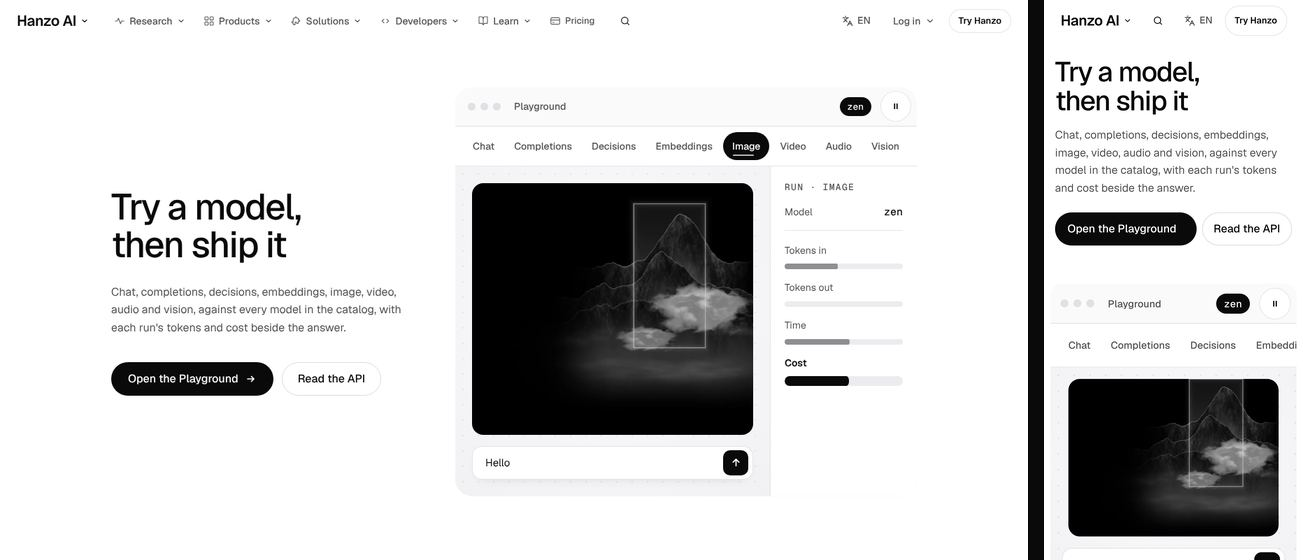
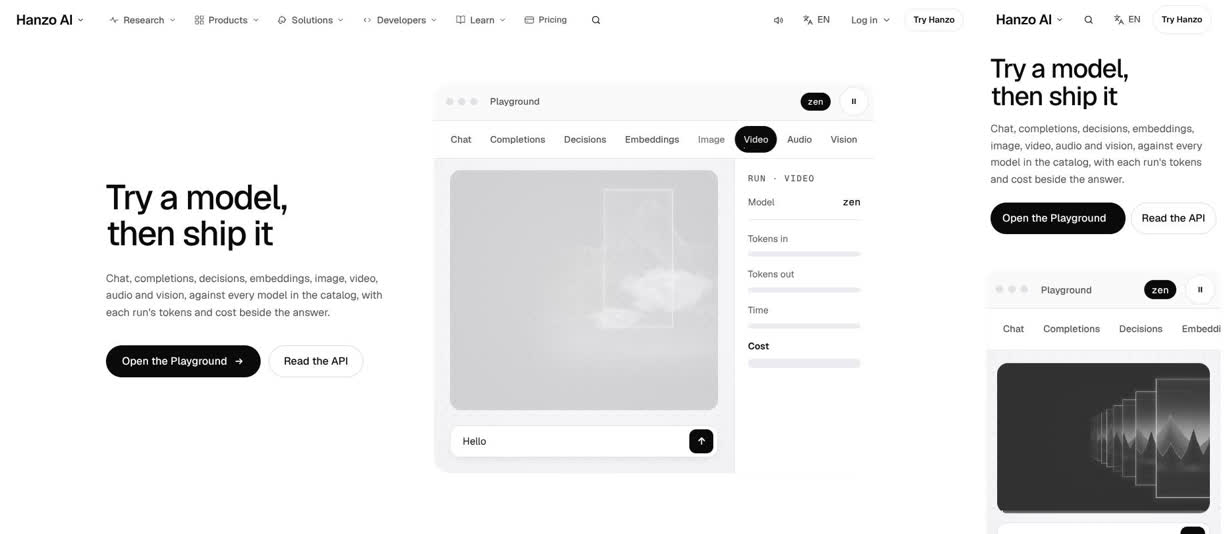
re-review: /playground 6/10 after the system merge (hero window jumps, still screens, header ask turned hollow, card claims false)
Claude-Session: https://claude.ai/code/session_01DqUybEnABm6Lfey1goid2b

diff --git a/docs/review/playground.md b/docs/review/playground.md
@@ -1,159 +1,223 @@
 # /playground: James-eye review
 
 Verdict: 6/10
-First complaint: "The top is good, a real Playground running on our own pictures, but the window's right side just fades into the page. Then I scroll for nearly four screens and all that happens is one word goes bold next to a code box that's half empty. In the film wall an 'Open' label chases my cursor, which I said I don't want. And once the top has gone there's no button to open the Playground until the very end."
+First complaint: "The top's good, the Playground's really running. Then I scroll through five screens where nothing moves unless I do, just one word going bold next to a half-empty code box. And on this page even the Try Hanzo button up top has been made hollow, so once the top's gone there's nothing to press until the very end."
 
-Reviewed: branch `claude/elegant-johnson-b2vx1q` @ `9898ac2`. The page files last changed at `c9784eb`; the Cloud 3 kit (`LaunchType`, `SettleStage`, `LaunchClose`, `RelatedCards`) changed at `3f456ca`. Files hash (Playground.jsx + .css + page.jsx): `cfd7a21d0c4d`.
-Walked 7 Nov 14:34–15:02 UTC on the dev server, moving, at 1470×801, 375×812 and 390×664. I walked it once at `c9784eb` with the old kit and again after `3f456ca` landed; the verdict is on the second walk. I kept videos, frame sheets, a hover/press log and probe JSON. The once-per-visit loader was skipped, except for one walk with it on. The bar is the current `MASTER.md` and `JAMES.md` (scale rhythm, nothing floats, deck greys, flat surfaces, no springs).
-Proof: `img/playground.jpg` (desktop first screen | phone first screen; the Next dev badge is hidden in the shot).
+Reviewed: main @ `648b798` (last page commit `c9784eb`). Files hash: `e6de6830175d`
+Walked 7 Nov 15:10–15:14 UTC on the dev server, moving, at 1470×801 and 375×812 (videos, frame sheets and a frame-difference motion log kept by the critic; the site loader was skipped).
+Proof: `img/playground.jpg` (desktop first screen | phone first screen).
+
+## Since the last review
+- **The page itself has not changed.** `Playground.jsx`, `Playground.css` and `page.jsx` last changed at `c9784eb` (14:33), before the last review. Every change below comes from the shared system (the merges up to `648b798`), not from the builder.
+- **Done by the shared system: nothing floats, and the red badge is gone.**
+  - The cursor-following "Open" label on the wall is gone site-wide. `data-cursor="Open"` is still on line 253, but it now does nothing.
+  - There is no desktop pill bar. The phone bar shows only at s2–s3, as a quiet white bar over the empty grey under the code card.
+  - The walk found no floats and no overlaps at either width, and 0 console errors at either width (the last review had a red "1 Issue" badge).
+  - Through the kit, "Paste and ship" now rests at 26px (it was 56px).
+- **Worse: the ask.** The system now makes the header's "Try Hanzo" the one solid ask at every width ("it never outlines"). `Playground.css` line 6 still outlines it on this page, so on desktop nothing solid carries the ask from s1 to s8 (answer 4).
+- **Still open, all with fresh evidence:**
+  - the hero window's snap at load, and its missing right and bottom edge (answer 1);
+  - the lit kind off the end of the phone tab strip;
+  - the pinned scene, now measured as five STILL screens in a row (answer 2), with its half-empty curl card;
+  - the 480→700 weight reflow on the phrases (JUMP);
+  - the springs, the shadows on things that don't float, and the off-deck greys and radii;
+  - "Deploy to Cloud", still dead with no press;
+  - the coverage card, still the old list with false claims.
+- **New:** each time Video comes round, the canvas goes blank for about 1.2 s. The proof image caught it.
 
 ## The 11 answers
-1. **Sells in 5 seconds, moves within 1 second?** Yes, with three blemishes.
-   - What works: the first screen has the 52px h1, the lede, one solid ask and the Playground window running beside it, at 1470×801 and at 375×812. At 390×664 you see only the window's bar, its tabs and about 60px of canvas. Iro's tiles start clearing at first paint (CSS, no JS needed) and the meter fills. The eight kinds take turns every 3.8 s, and hovering a kind previews it. It sells.
-   - The window's right and bottom edges have no line. The white run panel dissolves into the white page, so the box looks unfinished. The kit's hairline is an inset shadow painted under `.pg-win`'s opaque fill, and `3f456ca` removed the drop shadow that used to define the edge.
-   - The window jumps about 40px up and left in a single frame when the page hydrates, with no input. `SettleStage` server-renders at scale 1.08 and +48px, then snaps to settled because the stage is already past its end offset. That was about 1.5 s after paint on the dev server.
-   - On phones the running kind is off the right end of the tab strip. At 375, "Image" sits at x 399–465 and the strip ends at 359, so the window runs a kind with no tab lit.
-2. **One in, one out, or a document?** Mostly one in, one out. The order is hero → the pinned "first request" scene → the dark room (ClipWipe) with the model wall → related → close.
-   - The pinned scene is the weak stretch. It has four states over 3,044px, which is 3.8 screens at 1470×801. Three of the four states only bold one phrase and mark one token.
-   - Meanwhile the curl card stays half empty: 3 lines in a card sized for the 12-line Python pane.
-   - Related, then close, ends as a document.
+1. **Sells in 5 seconds, moves within 1 second?** Yes, with four blemishes.
+   - Desktop: all of this fits inside 801px:
+     - the 52px h1 "Try a model, then ship it" on two lines (cut in by line mask; the mask shows at 2.8 s in the film);
+     - the lede;
+     - "Open the Playground" (y 518) and "Read the API";
+     - the running window.
+
+     Iro's tiles clear and the meter fills. Moving frames in the first second after paint: 6/25; s0 shotdiff 25.2. Paint came at 2.76 s, which is the dev server's first compile on the first walk, so I don't score it.
+   - Phone: the 40px h1, the lede, both buttons and the window's bar, tabs and about 230px of canvas fit inside 812px. 8/25 frames move in the first second, and s0 shotdiff is 12.9.
+   - **The window snaps.** At 4.6→4.8 s in the film (about 1.9 s after paint) the window shrinks by about 7% and jumps about 50px up in one frame, with no input. `SettleStage` server-renders it scaled and offset, then snaps it to rest.
+   - **A blank canvas.** Each time the kinds reach Video, the canvas fades to a blank pale grey and the meter empties for about 1.2 s before Koma's film shows (film 9.0–10.2 s, `d-shot-00-b`, and the proof itself). It reads as "still loading".
+   - **No edge.** The window's right and bottom edges have no line, so the white run panel runs into the white page (proof, left half).
+   - **Phone tabs.** From Image onwards the lit kind is off the right end of the tab strip ("Embeddi" is the last tab you can see), so the window runs a kind with no tab lit.
+2. **One in, one out, or a document?** Half. The order is:
+   1. hero;
+   2. the pinned "first request" scene;
+   3. the dark room, which opens from a rounded black card to full width (as MASTER asks), with the nine-model wall;
+   4. related;
+   5. the close.
+
+   - **Desktop, a dead stretch.** The pinned scene takes s1–s5 (3,250px), and all five screens are STILL (shotdiff 0 on each). Nothing there changes unless you scroll: one phrase goes bold and its token gets a black mark.
+   - Add s7 (related) and s10 (footer), and 7 of 11 desktop screens are STILL. Only s0, s6 (the wall, 1.29), s8 (0.42) and s9 (0.59) move by themselves.
+   - The code card stays half empty for curl: 3–4 lines in a card sized for Python's 12 (s2, s3).
+   - Phone is better: s0, s1, s4, s5 and s6 move, and s2, s3 (the scene) and s7 (the close) are STILL.
+   - After the wall it ends as the kit always does: related cards, then "Get Playground".
 3. **A real object in every section?** Yes at section level:
-   - the live window;
+   - the running window;
    - Hanzo's own curl and Python;
-   - nine model renders with one film playing (the best block on the page, and JAMES 6 met);
+   - nine model renders with one film playing at a time (the best block on the page, and JAMES 6 met);
    - Sigil art on the related cards and the close.
 
    Inside the window it is weaker:
-   - Chat and Completions are grey skeleton bars that read as "still loading".
+   - Chat and Completions draw grey bars (`#d9d9de`) that read as loading.
    - The Model row says `zen` while the canvas shows Iro, Koma or Kai.
-   - Audio is a generic CSS waveform, though Oto and Koe have their own films on this same page.
-4. **One ask in the sticky header, nothing floating, scale with rhythm?** No.
-   - Per viewport it is right: at most one solid button at every stop.
-   - But from the end of the hero to the close (about 5 screens) there is **no solid ask anywhere**. `Playground.css` line 6 forces the header's "Try Hanzo" to an outline on this page, so the header never carries a solid ask.
-   - The site's ask bar is shared chrome and not scored here. It did not arrive in any plain scroll walk at this HEAD, on desktop or phone, and the same is true on /s3 and /pubsub. In one run it did arrive, and sat over the last line of the agent prompt.
-   - Something floats: the wall tiles carry `data-cursor="Open"`, so an "Open" chip follows the pointer (MASTER 3.3 banned list). `3f456ca` removed the same thing from RelatedCards, but the page keeps it.
-   - Scale:
-     - The h1 at 52 and "Get Playground" growing from 26 to 64 are right.
-     - The first-request sentence and "Paste and ship" are set at `clamp(36px, 3.9vw, 56px)`, which is 56px. That is bigger than the h1, never settles, is off the deck scale (52/64) and is weight 600 against Book 497.
-     - The 21px h2 "Then the same request from code" sits over the 56px sentence and reads as a kicker.
-5. **Does every hover and press answer?** Almost all.
-
-   | Control | Hover | Press |
-   |---|---|---|
-   | Hero ask | fill #0a0a0a → #262626 | .97 |
-   | Read the API | border turns ink | .97 |
-   | Pauses | fill | .97 |
-   | Kind tabs | preview the run (the hover tells you something) | .98 |
-   | curl/python | fill and ink | .98 |
-   | Copy | ring | .92 |
-   | Wall tiles | ring, picture 1.05, label flips, its film plays | .98 |
-   | Related cards | fill and 70px art drift | .97 |
-   | Close ask | magnetic, fill | .97 |
-
-   Two fail:
-   - **The phrases change weight 480 → 700** on hover and on scroll. That widens "a model name" from 338 to 351px and pushes ", and" sideways: a layout jump, logged as layout-shift on `#text , and`.
-   - "Deploy to Cloud" has no press state.
+   - Audio is a generic CSS waveform, though Oto and Koe have their own films on this page.
+   - Video starts with the blank canvas from answer 1.
+4. **One ask in the sticky header, nothing floating, scale with rhythm?** Floats pass. The ask fails on desktop. Scale is close.
+   - **Floats:** none at either width, and no overlaps. The phone bar "Open the Playground →" shows only at s2–s3, under the code card, over empty grey.
+   - **Ask:** `Playground.css` line 6 forces the header's "Try Hanzo" to an outline on this page. Every desktop screen shows it outlined, against SYSTEM.md §5 ("It stays solid; it never outlines").
+     - From s1 to s8 (about 5,200px) there is no solid ask on desktop. The only fills there are the curl/python pill and Copy inside the scene.
+     - Phone: the quiet bar carries "Open the Playground" at s2–s3 only.
+     - The hero and the close each have one solid "Open the Playground".
+   - **Scale:** mostly right. The h1 is 52px (40 on phone). "Paste and ship" and the related titles are 26px, and "Get Playground" is 64px (44 on phone): live hanzo.ai's rhythm.
+     - The exception is the first-request sentence (`.pg-anat`). It rests at 56px, weight 600, for five screens (BIG×5 on s1–s5). That is bigger than the h1, off the deck's sizes, and never settles.
+     - The 21px h2 above it, "Then the same request from code", is smaller than the paragraph it heads.
+     - It is one big thing per screen, so not "everything big", but the biggest thing on the page is not the product.
+5. **Every hover and press answers?** Mostly.
+   - These answer on hover and press:
+     - the hero ask (0.97);
+     - "Read the API";
+     - Pause (0.97);
+     - Chat (0.98);
+     - Copy (0.92);
+     - Zen (0.99);
+     - Kai;
+     - Desktop (0.97);
+     - API Keys (0.97).
+   - Hovering a kind previews its run, which tells you something. Phone taps on Pause, Chat, "a message" and Copy answer.
+   - These fail:
+     - "a model name" and "a message" answer, but with a JUMP. The lit phrase goes from weight 480 to 700 (`.pg-ph.on`), widens, and pushes ", and" sideways.
+     - "curl": dead hover plus a JUMP on desktop. On phone the tap shows nothing.
+     - "A key": dead hover, and nothing on a phone tap. Scroll has already lit it, so it can't show it heard you.
+     - "Deploy to Cloud": DEAD, with no press.
 6. **Overlap, font swap, layout shift?**
-   - The page itself causes no overlap at 1470×801 or 375×812. The red "1 Issue" badge is a hydration mismatch in the shared `FooterHTML`, not this page.
-   - The h1 box is steady.
-   - CLS is 0.016 on desktop, 0.005 at 375 and 0.046 at 390×664. The phone figure comes from the code card changing height when Python swaps in.
-   - At 320 the hero ask's label overflows its pill (the "O" is cut). At 375 its arrow is squeezed to 0.8px. The cause is `.pg-acts { flex-wrap: nowrap }`.
-   - The 40px hero snap (answer 1) is the visible jump.
+   - Measured clean:
+     - 0 overlaps at either width;
+     - no horizontal scroll at 375 or 320;
+     - the h1 box steady (one reading at each width);
+     - CLS 0.015 on desktop (0.013 on the first-request grid) and 0 on phone.
+   - But two visible jumps: the hero window's snap (answer 1) and the phrase reflow (answer 5).
+   - Phone: the hero ask's arrow is missing at 375. `.pg-acts { flex-wrap: nowrap }` under 900px squeezes it to nothing.
+   - 0 console errors at both widths.
 7. **Which reference, and is its motion there?**
-   - apple.com, yes: the product as the hero, and a pinned scene where one panel changes.
-   - osply/hamol pointer details, yes: hover-to-preview kinds and the magnetic close.
-   - synchronized.studio, no. The tiles carry `data-morph`, but clicking Kai or Koma cut straight to the model page in about 0.5 s with no picture carried across. On a cold route the Playground's own hero flashed for about 0.8 s first (dev server).
-8. **Different from its neighbours?** Partly.
-   - Its own: the hero medium (a running Playground window on Hanzo's model media), the film wall and the "beyond" (the anatomy of a first request).
-   - Shared: the plainest Cloud 3 composition (copy left 5fr, window right 7fr). The section order (hero → pinned scene → dark Paste room → related → Get X) is the same skeleton as /s3, /registry, /node and /mq.
-   - /pubsub, /s3, /registry and /node vary their hero layout more. `unique.py` passes.
-9. **All 18 parts covered?** No; see below. `docs/coverage/playground.md` is still the old numbered list, with no tick boxes and no `Done here:` lines, so the board counts 0 of 18. Several of its claims are false at this HEAD.
+   - apple.com: yes. The product is the hero, and in the pinned scene one panel changes.
+   - osply/hamol pointer details: yes. A kind previews on hover, and a wall tile picks its film.
+   - synchronized.studio: the wall tiles and related cards carry `data-morph`, but this walk opened none, so it is unproven.
+   - anthropic launch: n/a.
+8. **Different from its neighbours?** The hero, yes; the rest, no.
+   - Own: a running Playground window on Hanzo's model media. /metrics leads with a full-bleed chart under a one-line title, and /o11y with a centred title over a black room and a trace panel. The nine-model wall in the dark room is also its own.
+   - Shared, Cloud 3 kit:
+     - the same three-grey-dot window chrome as /metrics' "Hanzo Datastore" and /o11y's console;
+     - a pinned scene with a rounded card on the right;
+     - the `ClipWipe` dark room with "Paste and ship" and the same Agent prompt box as /o11y;
+     - the same "RELATED CAPABILITIES" Sigil contour cards as /o11y;
+     - the same "Get X" close ("Deploy to Cloud", "License: Apache-2.0", hanzoai and a Sigil card) as "Get O11y".
+   - The order is the same skeleton as /metrics and /o11y: hero → pinned scene → dark Paste room → related → Get X. James: "It's not just a template."
+9. **All 18 parts covered?** No; see below. The card has all 18 parts, in the old numbered form, but six of its claims fail the walk.
 10. **Banned tells?** Yes:
-   - The cursor-following "Open" label on the wall (MASTER 3.3).
-   - Springs and overshoot (MASTER 3.1, "no springs, no overshoot"):
-     - the kind pill (`layoutId` spring 420/34);
-     - the Decisions nodes (spring 300/18);
-     - the picked node (scale 0 → 1.25 → 1).
-   - Shadows on things that do not float:
-     - `.pg-req` (`0 40px 100px -40px`);
-     - `.pg-input`;
-     - the selected curl/python thumb.
-   - 14 off-deck greys across 44 hex uses in `Playground.css`: #f5f5f7, #6e6e73, #8e8e93, #aeaeb2, #a1a1a6, #ececf0, #e0e0e5, #e3e3e6, #d9d9de, #f2f2f4, #f1f1f4, #fbfbfd, #161618 and #111. `taste.py` passes them because they carry no chroma, but MASTER 3.1 makes the deck ramp the only values.
-   - Clean: 0 UI hues in the computed styles of `main` (the only one on the screen is the footer's blue privacy icon), no eyebrow over the h1, no `title=` in the page, no gradient text.
-11. **Copy untouched?** Yes. Parity is 48/48 text and 7/7 links. The window adds UI labels that are not in `content/ui-strings.json` (gate 4): Tokens in, Tokens out, Time, Cost, Model, "Run ·", found, and the aria labels "Kind of run" and "This run". Copy decision 5 (the Python block calls `KeysApi.get_keys()`) is correctly left to James.
+    - **Visible jumps:** the hero window's 50px snap at load, and the phrase reflow on hover and scroll.
+    - **A dead stretch:** five STILL screens in a row on desktop (s1–s5), and 7 of 11 STILL in all.
+    - **Springs and overshoot** (the deck: "no springs, no overshoot"):
+      - the kind pill (`layoutId`, spring 420/34, line 127);
+      - the Decisions node (spring 300/18, line 61);
+      - the picked node (`scale [0, 1.25, 1]`, line 62).
 
-## Missing from the 18 parts (MASTER part 2, measured)
-- **Coverage card:** it is in the old format, so 0/18 `Done here:` lines. These claims are false at this HEAD:
-  - "carried by the site's sticky ask bar": not seen in plain walks.
-  - "colour comes only from Iro, Koma and Kai" and "in full colour": all nine renders and films are pure greyscale (mean chroma 0.0), so the page has no colour at all. That is fine under the deck, but the card is wrong.
-  - "related cards lift": the kit changed that.
-  - "no text under 14px" on phones: there are 8 runs at 12–13px, all kit captions (Agent prompt, api, /v1/chat/completions, Related capabilities, License, Apache-2.0, hanzoai). MASTER allows captions at that size.
-  - "hero buttons on one row": true, but the ask clips at 320 and 375.
-- **Part 1, Strategy:** no solid ask between the hero and the close; page CSS line 6 outlines the header's ask.
-- **Part 3, First impression:** the hero snaps at hydration. The hero is a hand-written section, not `PageHero` (the same is true of its siblings).
-- **Part 6, Content:**
-  - The 56px statements are off the scale.
-  - An h2 is smaller than the paragraph it heads.
-  - ", and" stays grey when the whole sentence is lit.
-- **Part 7, Visual system:**
-  - off-deck greys;
-  - shadows on the code card and the composer;
-  - radii of 10, 14 and 22px, which are off the deck list;
-  - the window has no right or bottom edge.
-- **Part 8, Components:**
+      While the pill glides, the old tab's label is white on white: "Image" measured 1.0:1 at both widths.
+    - **Shadows on things that don't float:**
+      - `.pg-req`, which is both outlined and shadowed (`0 40px 100px -40px`);
+      - `.pg-input`;
+      - the selected curl/python tab.
+    - Clean:
+      - no hue at either width;
+      - nothing above the h1;
+      - no floats;
+      - no opacity-only hover;
+      - 0 `title=` tooltips;
+      - 0 console errors;
+      - no audio code of its own (the shared kit ticks the tabs, taps the asks and chimes on Copy, and never on hover, scroll or load).
+11. **Copy untouched?** Yes.
+    - Parity is 48/48 text and 7/7 links.
+    - The 18 new strings are:
+      - the window's labels ("Run ·", "Tokens in", "Tokens out", "Time");
+      - Hanzo's own curl and Python lines, lowercased by the diff;
+      - the model names.
+
+      None is a new claim.
+    - The window's labels are not in `content/ui-strings.json` (gate 4).
+    - The `KeysApi.get_keys()` question is correctly left to James.
+
+## Missing from the 18 parts (MASTER §2, measured; coverage card checked)
+- **Coverage card:** `docs/coverage/playground.md` is still the old numbered list. It has no `Done here:` lines and no three lines above part 1, so the board counts 0 of 18. These claims are false:
+  - Part 4, "feeds the site's ask bar (desktop pill, phone thumb bar)": there is no desktop bar any more, and nothing solid carries the ask on desktop after the hero.
+  - Part 7, "LaunchType scale (display.s 80, title 28, body 19)": the walk measures 52 / 26 / 64, plus the 56px sentence. Nothing is 80.
+  - Part 7, "Colour comes only from Iro, Koma and Kai": every frame of them is greyscale. The page has no colour, which is fine, but the card (and the V2 line) say otherwise.
+  - Part 9, "related cards lift": the kit's cards don't lift ("no lift" in `RelatedCards.css`). Hover deepens the fill and drifts the art.
+  - Part 10, "in full colour with no filters": greyscale.
+  - Part 11, "No text under 14px": 7 phone runs are 12–13px. "License: Apache-2.0" at 13px is not mono capitals.
+  - Part 17, "Koma shows its poster until it can play": the canvas goes blank pale grey for about 1.2 s instead.
+  - This caps the page at 7.
+- **Parts 1 / 4, the ask:** page CSS line 6 outlines the header's "Try Hanzo", so desktop has no solid ask from s1 to s8.
+- **Part 3, first impression:**
+  - the hero snaps at load;
+  - the hero is hand-written, not `PageHero`;
+  - the middle of the desktop page is STILL for five screens;
+  - the Video kind flashes blank.
+- **Part 6, content:**
+  - The 56px weight-600 sentence sits under a 21px h2.
+  - ", and" stays grey when the rest of the sentence turns ink (s4).
+- **Part 7, the visual system:**
+  - The window has no right or bottom edge. The kit's hairline is an inset shadow painted under `.pg-win`'s white fill.
+  - `.pg-req` is outlined and shadowed. `.pg-input` and the selected tab are shadowed.
+  - 44 literal hex uses in `Playground.css`, 14 of them off the deck (`#f5f5f7` ×4, `#aeaeb2` ×3, `#8e8e93` ×3, `#f2f2f4`, `#ececf0`, `#6e6e73`, `#161618`, `#111` and others).
+  - Radii of 10, 14 and 22px, which are not on the deck's list.
+- **Part 8, components:**
   - The kinds are `role=tab` with no tabpanel and no arrow keys.
-  - The inactive code pane sits on top of the active one (opacity 0, `pointer-events: auto`, not `inert`). Pointer and text selection over the curl land in the hidden Python pane, on desktop and phone.
-- **Part 9, Motion:**
-  - springs and overshoot;
-  - the weight-change reflow;
-  - moves that are not scene moves but run past 500 ms: the phrase weight (.6 s), the tile picture (.9 s), the meter fill (1.2 s).
-- **Part 10, Media:**
-  - The wall loads 1200×1500 sources for 115–250px tiles, with no `srcset` or `sizes`. On the phone walk the bottom row (Mori, Oto, Uta) arrived as blank grey tiles at scroll pace (dev server).
-  - The Audio kind ignores Oto and Koe's own media.
-- **Part 11, Mobile:**
-  - The running kind is hidden off the tab strip.
-  - The ask clips at 320 and its arrow is crushed at 375.
-  - CLS is 0.046 at 390×664.
-- **Part 12, Accessibility:** the hidden code pane stays in the reading order and on top; the tabs have no arrow keys.
+  - The off code pane is stacked under the on one at opacity 0, and not `inert`.
+  - "Deploy to Cloud" has no hover change and no press.
+- **Part 9, motion:**
+  - the springs and the overshoot;
+  - the phrase weight animates `font-variation-settings` for 0.6 s, which reflows the line, rather than moving by transform, opacity or clip;
+  - five STILL screens on desktop.
+- **Part 10, media:** Audio ignores Oto's and Koe's own films. Video shows no poster while Koma loads.
+- **Part 11, mobile:** the lit kind is off the tab strip, and the hero ask's arrow is squeezed out at 375.
+- **Part 12, accessibility:** "Image" measures 1.0:1 during the glide, and the tabs have no arrow keys.
 - **Gate 4:** the window's labels are not in the UI-string register.
-- **Passing:**
-  - one h1 and one `main`;
-  - parity 48/48 + 7/7;
-  - 0 computed UI hues;
-  - no horizontal scroll at 320;
-  - every phone target ≥44px;
-  - reduced motion at rest (0 running animations, 0 films playing);
-  - JS off legible (nothing hidden; the first-request scene unpins into reading order);
-  - `data-cta` and `data-thumb` on both primaries;
-  - `taste.py`, `unique.py` and `variety.py` pass;
-  - one film at a time with a 44px pause;
-  - no `setInterval`.
+- Passing:
+  - structure: one h1, visible with JS off; 0 hidden text with JS off; one main;
+  - colour: no hue at either width;
+  - layout: 0 overlaps and no float at either width; no horizontal scroll at 320; 0 tiny targets; 0 `title=`;
+  - asks: 2 `data-cta` and 2 `data-thumb`;
+  - motion: reduced motion settles (0 running after 3 s);
+  - media and kit: no raw img, video or table; one film at a time on the wall, with a pause; the dark room opens from a rounded card; a Band at the end;
+  - sound: from the shared kit only;
+  - errors: 0 console errors;
+  - header comment: Persona, Goal, CTA, Metric, Signature and Beyond are all there;
+  - copy: parity 48/48 and 7/7.
 
 ## Fixes (in order)
-1. **Nothing floats.** Delete `data-cursor="Open"` from the wall tiles. Keep the ring, the film and the label flip.
-2. **One solid ask after the hero.** Delete `Playground.css` line 6, so the header's ask is solid once the hero ask has scrolled away. Alternatively, ask the Chrome owner for the header to carry "Open the Playground" on this page. Note for the Ask.jsx owner: the shared bar does not arrive on /playground, /s3 or /pubsub at this HEAD, and when it does arrive it covers the agent prompt.
-3. **Finish the hero window.**
-   - Outline `.pg-win` itself with a 1px ring at 10% black on the window, not an inset shadow under it, so its right and bottom edges exist.
-   - Start `SettleStage` settled when its stage is already past the end offset at load, so it never jumps 40px on hydration.
+1. **Give the ask back.**
+   - Delete `Playground.css` line 6, so the header's "Try Hanzo" stays solid at every width, as SYSTEM.md §5 asks.
+   - Keep "Open the Playground" solid in the hero and the close, and "Read the API" and "Deploy to Cloud" as the quiet ones.
+2. **Make the first-request scene short and alive.**
+   - Cut it from about 3,250px to about 240svh.
+   - When it arrives, let it run itself once: "A key", "a model name" and "a message" light in turn, about 1.2 s apart, with their tokens marked, then hand over to scroll.
+   - Size the card to the pane on show, so curl has no empty half.
+   - Light a phrase with ink and its underline only, at a fixed weight, so nothing reflows. Light ", and" with the rest at the end.
+   - Set the sentence at 44px in Book 497, below the h1 and on the deck scale.
+   - Make the off pane `inert`.
+3. **Steady and finish the hero window.**
+   - Start `SettleStage` settled when its stage is already past the end offset at load, so it never snaps 50px.
+   - Draw the 1px line at black 10% on `.pg-win` itself, so its right and bottom edges show.
+   - Show `koma.webp` (already on the page) in the Video canvas until the film plays, instead of a blank panel.
    - On phones, scroll the lit kind into view in the tab strip on every change.
-4. **Tighten the first-request scene.**
-   - About 240svh, not 380.
-   - Size the card to the pane that is showing (no empty half).
-   - Make the off pane `inert`, `pointer-events: none` and `aria-hidden`.
-   - Light a phrase with ink and its underline only, with no weight change, so nothing reflows. Light ", and" at the end too.
-   - Set the sentence at 52 or 64 in Book 497.
-   - Outline the card instead of shadowing it.
-5. **No springs.** Run the kind pill and the tree nodes on ease-emphasis at 300 ms, and drop the 1.25 overshoot.
-6. **Deck tokens only.**
-   - Map the 14 greys to the deck: #f5f5f7 → #f5f5f5, #6e6e73 → #737373, #8e8e93/#aeaeb2/#a1a1a6 → #a3a3a3, #ececf0/#e0e0e5/#e3e3e6 → #ededed/#e4e4e7, #d9d9de → #d4d4d4, #161618/#111 → #171717.
-   - Radii to 6, 8, 12, 16 or 24.
-   - Drop the `.pg-input` shadow.
-7. **Phone asks.** Let `.pg-acts` wrap below 360px, or give the arrow `flex: none`, so "Open the Playground" never clips.
-8. **Make the window logical.**
-   - The Model row should name the model whose media is on screen (Iro, Koma, Kai are already on the page).
-   - Give Audio Oto's or Koe's own film.
-   - Replace the grey skeleton bars in Chat and Completions, which read as loading.
-9. **Paperwork.**
-   - Rewrite `docs/coverage/playground.md` on `_TEMPLATE.md` with 18 `Done here:` lines, and correct the false claims.
-   - Request the window's labels in `ui-strings.json`.
-   - Give the wall images `sizes` with a 480px source.
+4. **No springs, no jumps.**
+   - Run the kind pill and the tree nodes on ease-emphasis at 300 ms, and drop the 1.25 overshoot.
+   - Fade the old tab's label with the pill, so "Image" is never white on white.
+   - Ask the `LaunchClose` owner (`docs/requests/playground.md`) for a press on "Deploy to Cloud": translateY 1px, plus a hover beyond the underline.
+5. **Flat, token-only surfaces.**
+   - `.pg-req`: keep the outline and drop the `0 40px 100px` shadow. Drop the `.pg-input` and selected-tab shadows.
+   - Map the 14 off-deck greys to the deck (`#f5f5f7` → `#f5f5f5`, `#6e6e73` → `#737373`, `#8e8e93`/`#aeaeb2`/`#a1a1a6` → `#a3a3a3`, `#d9d9de` → `#d4d4d4`, `#161618`/`#111` → `#171717`).
+   - Radii 10 / 14 / 22 → 8 / 12 / 24.
+6. **Make the card true.**
+   - Rewrite `docs/coverage/playground.md` on `_TEMPLATE.md`, with 18 `Done here:` lines and the three lines above part 1.
+   - Drop the false claims: the desktop pill, the 80px display, "full colour", the lift, the 14px floor, the poster. Correct the V2 line's colour claim the same way.
+   - Request the window's labels in `content/ui-strings.json`.
